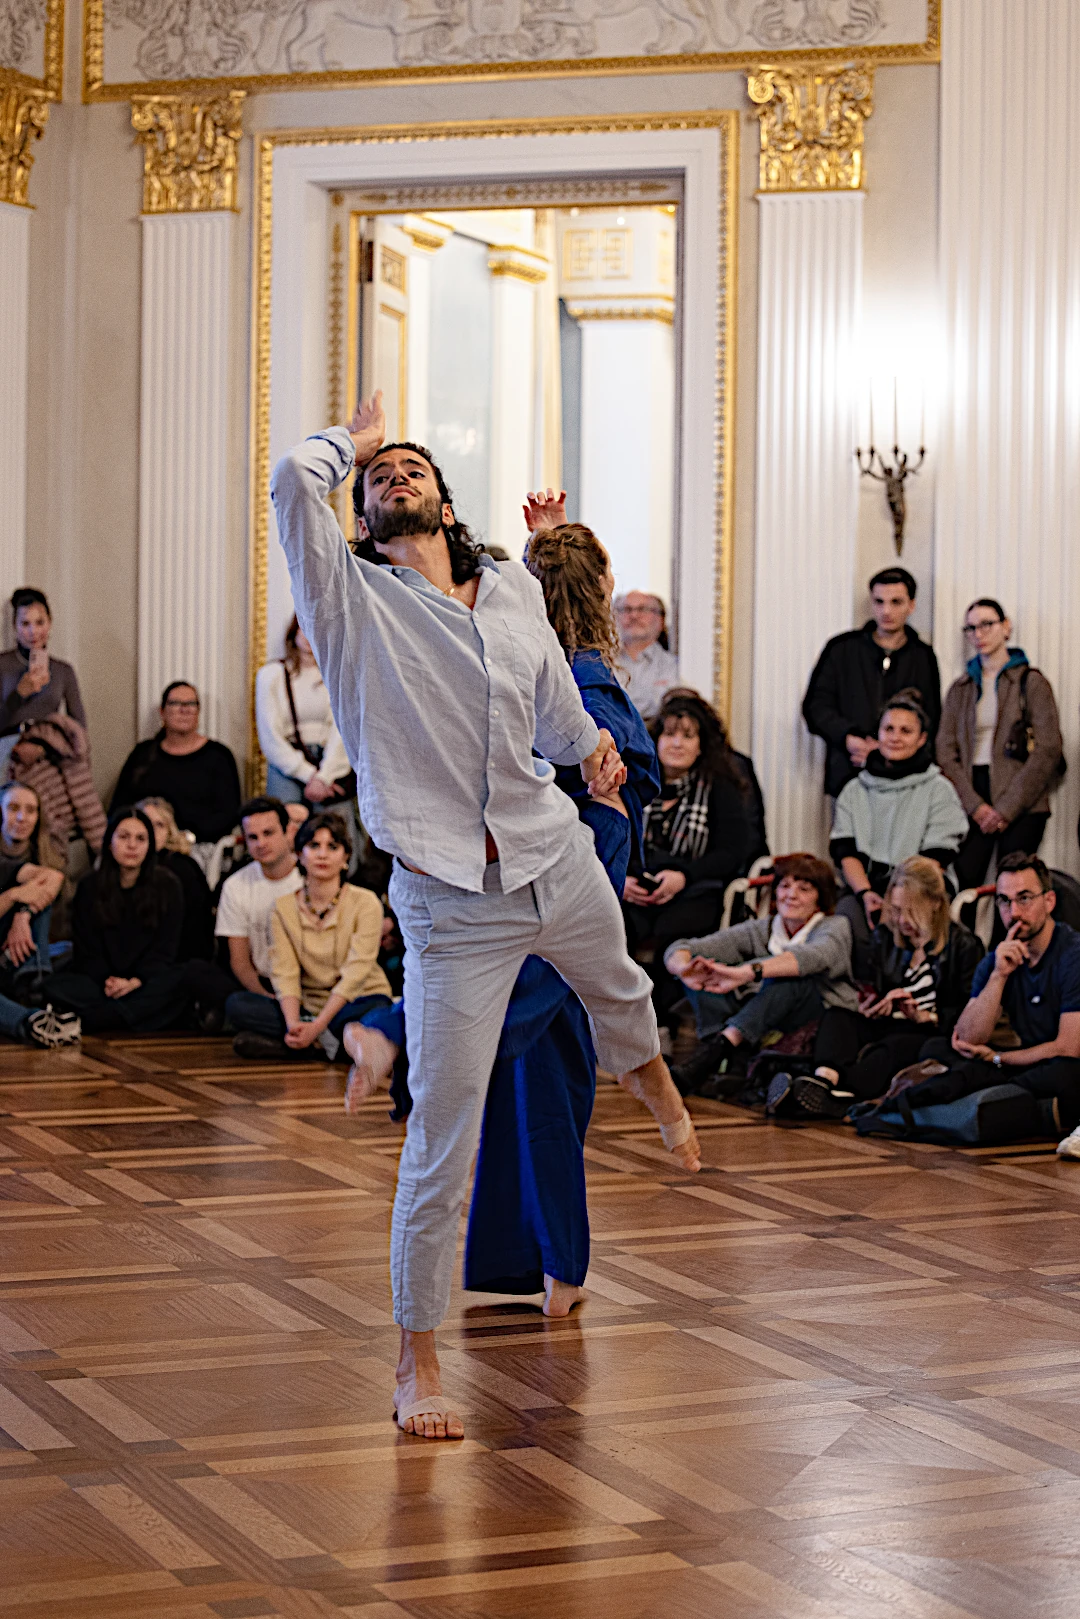
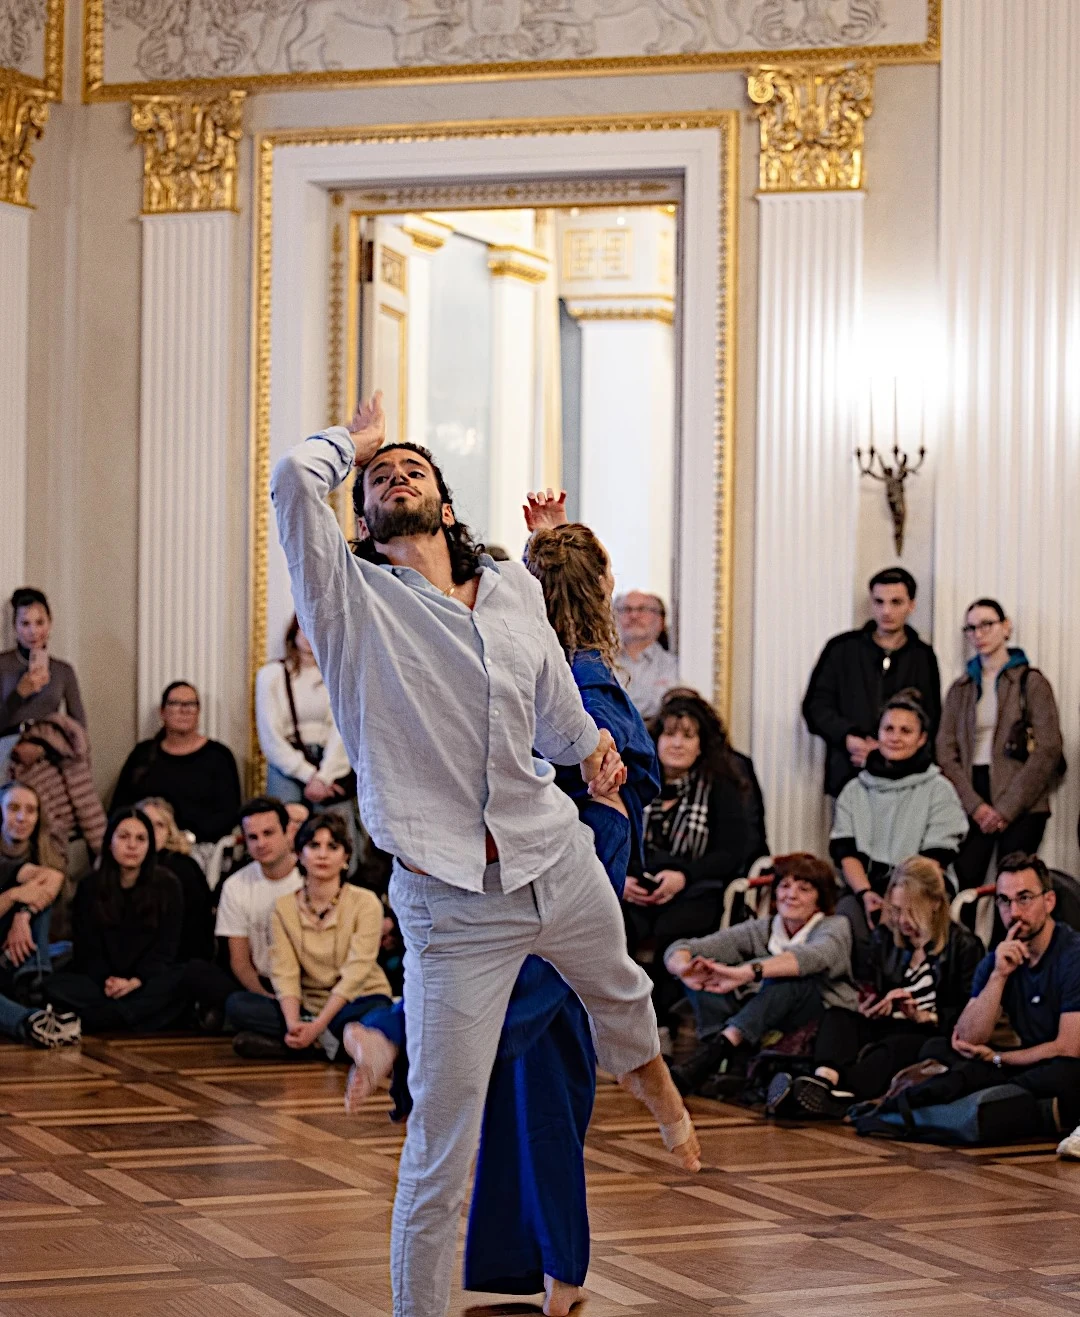
bilder größe

diff --git a/Neuro.html b/Neuro.html
@@ -150,7 +150,7 @@
 							</section>
 
 							<section id="content" class="main">
-								<span class="image main"><img src="images/collage.png" alt="" /></span>
+								<span class="image main"><img src="images/collage.webp" alt="" /></span>
 
 								<h2>
 									<span class="lang-en active">Rapid and Measurable Results</span>
